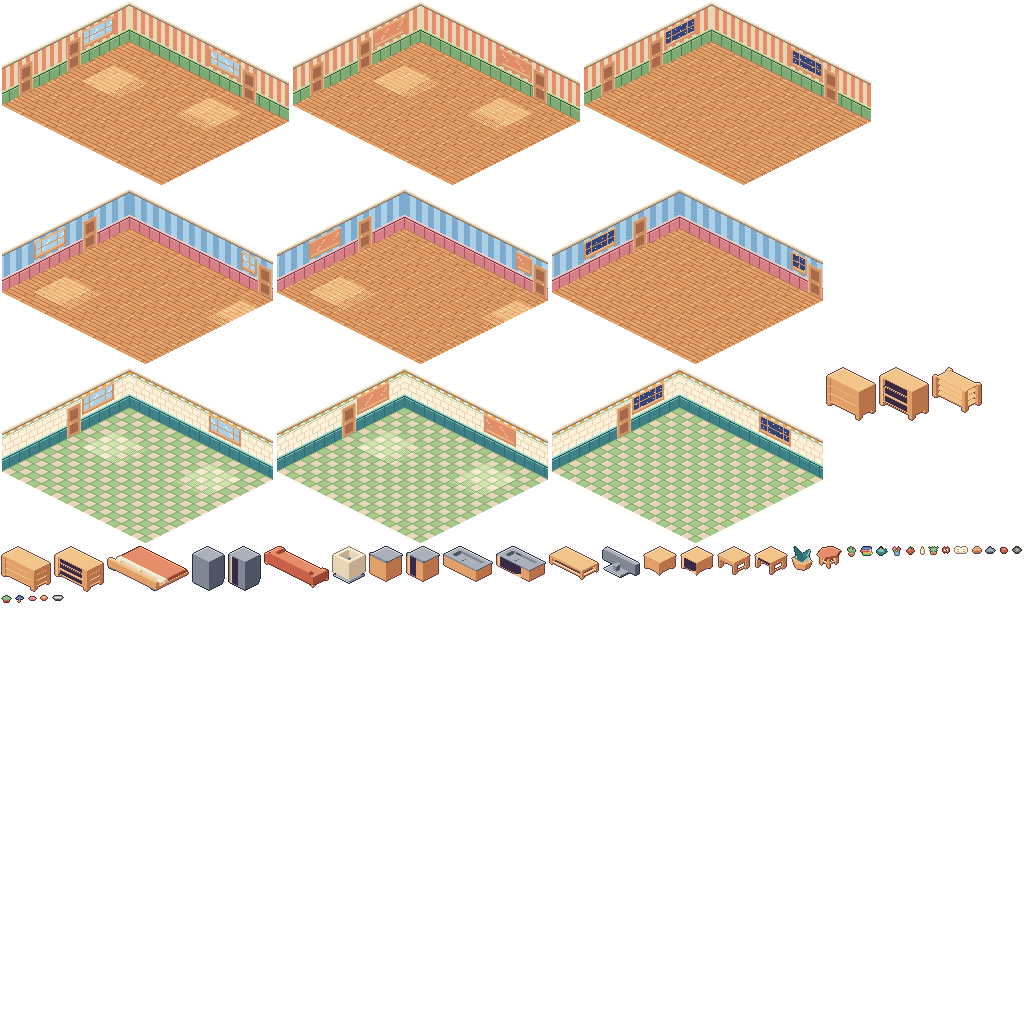
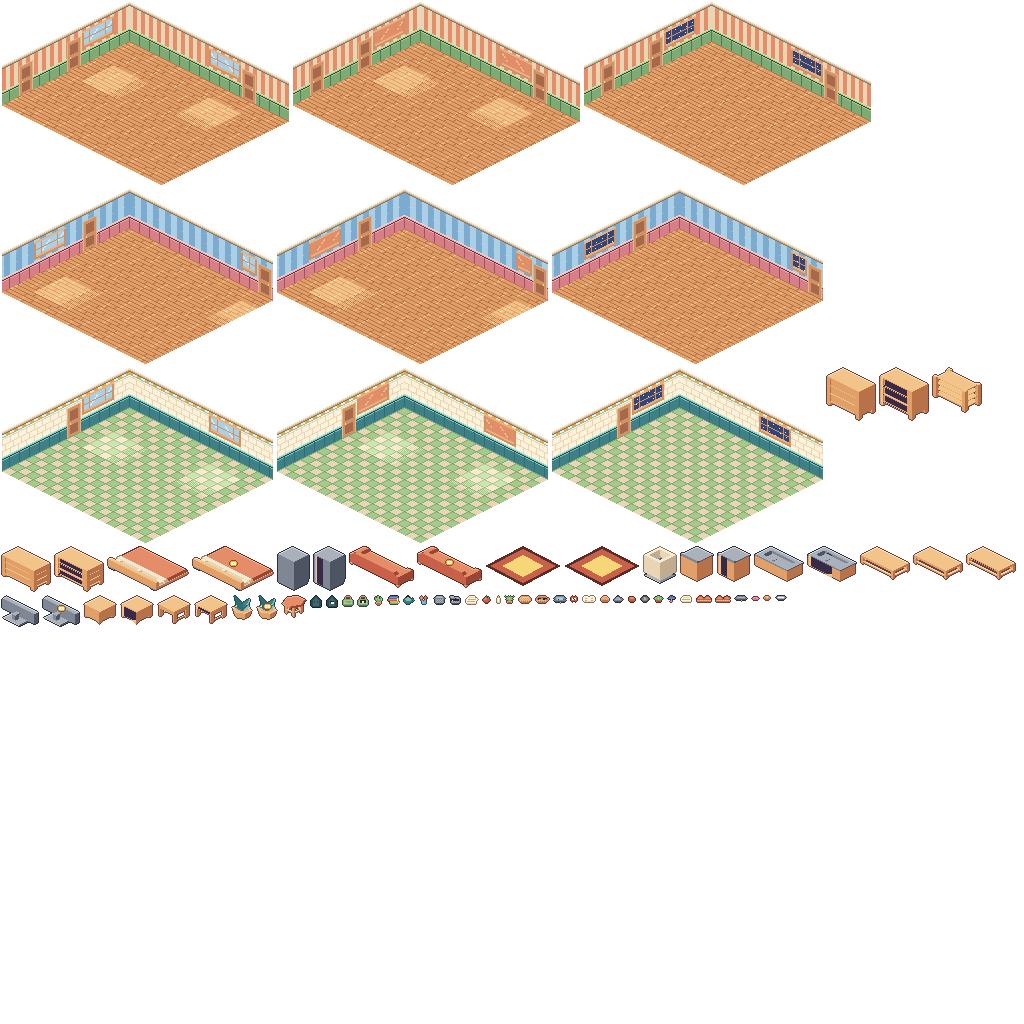
AI-4: spot frames for all slice-room kinds (closed/open), table variant

Changed region(s): [[0.0, 0.5312, 1.0, 0.625]]

diff --git a/tools/pixelart/spots.py b/tools/pixelart/spots.py
@@ -1,0 +1,52 @@
+#!/usr/bin/env python3
+"""Hand-built spot frames (B): closed/open pairs for bagSpot, basket, bin, charger, jacket, papers, shoeRack, rug, plus a generic
+'peek' open state for kinds whose Kenney closed frame has no door (sofa, bed, tv, plant). Pivot: bottom centre (rug/Kenney: unchanged).
+Usage: spots.py <room-slice dir>"""
+import json, os, sys
+from PIL import Image
+sys.path.insert(0, os.path.dirname(__file__))
+from dsl import build, col
+from props import L
+S = {
+ 'basket': (["..nnnnnnnn..", ".nNNNNNNNNn.", "nNnNnNnNnNnn", "nnNnNnNnNnNn", "nNnNnNnNnNnn", ".nmnmnmnmnm.", "..mmmmmmmm.."],
+            ["..nnnnnnnn..", ".nmmmmmmmmn.", "nmiiiggiiiimn", "nmiGgGgiirrmn", "nNnNnNnNnNnn", ".nmnmnmnmnm.", "..mmmmmmmm.."]),
+ 'bin': (["..kKKKKKk..", ".kKKKKKKKk.", "kkkkkkkkkkk", ".kKkKkKkKk.", ".kkKkKkKkk.", ".kKkKkKkKk.", ".kkKkKkKkk.", "..jjjjjjj.."],
+         ["KKKK.......", "kKKKkKKKk..", ".kkkk.kKKk.", ".iiiiiiiik.", ".iwiiiiiik.", ".kKkKkKkKk.", ".kkKkKkKkk.", "..jjjjjjj.."]),
+ 'charger': (["..kkkkkkkk..", ".kKKKKKKKKk.", "kkkkkkkkkkkk", ".jjjjjjjjjj.", "......y....."],
+             ["..kkkkkkkk..", ".kKKKKKKKKk.", "kkbBBBBBBkkk", ".kbBiBBBBjk.", "kkkkkkkkkkkk", ".jjjjjjjjjj.", "......y....."]),
+ 'jacket': (["....ll....", "...llLl...", "..llLLll..", ".llLLLLll.", "llLLLLLLll", "llLlLLlLll", "llLlLLlLll", "llLLLLLLll", "llLLLLLLll", "llLLLLLLll", ".lllllllll."],
+            ["....ll....", "...llLl...", "..llLLll..", ".llLLLLll.", "llLLLLLLll", "llLiiiiLll", "llLioowLll", "llLLoowLll", "llLLLLLLll", "llLLLLLLll", ".lllllllll."]),
+ 'papers': (["..wwwwwww..", ".wcccccccw.", "wwwwwwwwww.", "wddddddddw.", "wwwwwwwwww.", ".ccccccccc."],
+            ["...wwwwww..", "..wcccccw...", ".wwwwwwwwwo.", "wwddddddddwo", "wwwwwwwwwwo.", "wddddddddw..", "wwwwwwwwww..", ".ccccccccc."]),
+ 'shoeRack': (["..rrr....rrr..", ".rRRRr..rRRRr.", "rRRRRRrrRRRRRr", "rrrrrrrrrrrrrr", "nNnNnNnNnNnNnN", "mmmmmmmmmmmmmm"],
+              ["..rrr.....rr..", ".rRRRr..rRRRrr", "rRRRRRr.rRRRRr", "rrrrrrrrrrrrr.", "nNnNnNnNnNnNnN", "mmmmmmmmmmmmmm"]),
+ 'bagSpot': (["...nnnn...", "..n....n..", "..n....n..", ".gggggggg.", "gGGGGGGGGg", "gGggggggGg", "gGyyggggGg", "gGGGGGGGGg", "gggggggggg", ".hhhhhhhh."],
+             ["...nnnn...", "..n....n..", "..n....n..", ".gggggggg.", "gGiiiiiiGg", "gGiiwwiiGg", "gGiiooiiGg", "gGGGGGGGGg", "gggggggggg", ".hhhhhhhh."]),
+}
+PEEK = [".yyyyy.", "yowwwwy", "yowYwwy", "yowwwwy", ".yyyyy."]
+def diamond(w, h, lift):
+    im = Image.new('RGBA', (w, h), (0, 0, 0, 0)); px = im.load(); ramp = ['terracotta', 'butter']
+    for y in range(h):
+        for x in range(w):
+            if abs(x - (w - 1) / 2) / (w / 2) + abs(y - (h - 1) / 2) / (h / 2) <= 1:
+                edge = abs(x - (w - 1) / 2) / (w / 2) + abs(y - (h - 1) / 2) / (h / 2) > 0.86
+                inner = abs(x - (w - 1) / 2) / (w / 2) + abs(y - (h - 1) / 2) / (h / 2) < 0.55
+                px[x, y] = col('terracotta.0') if edge else col('butter.3') if inner else col('terracotta.2')
+                if lift and x + 2 * y < 30 and px[x, y][3]: px[x, y] = col('terracotta.4') if x + 2 * y > 26 else col('plaster.3')
+    return im
+def peek_open(src):
+    im = Image.open(src).convert('RGBA'); bb = im.getbbox(); pk = build(PEEK, L, outline=True)
+    cx, cy = (bb[0] + bb[2]) // 2 - pk.width // 2, bb[1] + int((bb[3] - bb[1]) * 0.30)
+    im.alpha_composite(pk, (max(0, cx), cy)); return im
+if __name__ == '__main__':
+    out = sys.argv[1]; piv = json.load(open(os.path.join(out, 'pivots.json')))
+    def save(key, im, pv):
+        im.save(os.path.join(out, key.replace('/', '__') + '.png')); piv[key] = {'pivot': list(pv)}
+    for kind, (c, o) in S.items():
+        for st, rows in (('closed', c), ('open', o)):
+            im = build(rows, L); save(f'spot/{kind}/{st}', im, (im.width // 2, im.height - 2))
+    for st in ('closed', 'open'):
+        d = diamond(76, 40, st == 'open'); im = Image.new('RGBA', (78, 42), (0, 0, 0, 0)); im.alpha_composite(d, (1, 1)); save(f'spot/rug/{st}', im, (39, 1))
+    for kind in ('sofa', 'bed', 'tv', 'plant'):
+        src = os.path.join(out, f'spot__{kind}__closed.png'); save(f'spot/{kind}/open', peek_open(src), piv[f'spot/{kind}/closed']['pivot'])
+    json.dump(piv, open(os.path.join(out, 'pivots.json'), 'w'), indent=0); print('spots done')

diff --git a/docs/status/AI-4.md b/docs/status/AI-4.md
@@ -6,15 +6,17 @@
 - Exterior kit (27 frames, group `house`, public/atlas/house.png): yard/lawn_0-2, path, flowers_0-3, bush_0-2, tree_0-1, fence_r/l/corner/gate, mailbox; porch/floor, steps, awning, railing, door, mat, lamp, lamp_glow, plant. Generator tools/pixelart/yard.py; ledger rows added; check.py accepts yard/porch names.
 - Kitchen shell redesign: cream tile backsplash with teal cap, sage/cream checker floor (was grey). Bedroom shell: soft blue stripes with rose dot lattice and picture-rail line. Living unchanged.
 - Stairs: `prop/stairsUp` (1x3 tiles, 12 steps x 6 art px = 72 rise, climbs toward -gy at rot 0, procedural, pivot = footprint top vertex) and `shell/house/stairwell` (2x1 hole with cream rim for the upper floor), both in group `house`; tools/pixelart/stairs.py. Kenney stairs models rendered as a ladder at this size, not used.
+- Room contact sheet tool (art:sheet), kitchen/bedroom props, check-frames fronts check: closed/open now exist for every kind used by living, kitchen and bedroom (bagSpot, basket, bin, charger, jacket, papers, shoeRack, rug, table new; sofa/bed/tv/plant got an `open` state). tools/pixelart/spots.py + spots.json (table).
 ## Verified
 - check.py core: 74 files, 0 problems; room-slice: 49 files, 0 problems (see commit).
 ## Not verified
 - Not made: optional porch bench/bike/cat. Fence pivots are the segment start vertex (AI-3 to confirm placement). check-frames does not yet check fronts.json. How it looks: owner/manager judge.
 ## Weaknesses (honest)
+- sofa/bed/tv/plant `open` is only a small envelope peeking on the closed frame (no real animation); hand-built small spots are 10-14 art px and basic; rug lift is a lighter corner; padlock overlay is `ui/padlock` (not re-skinned).
 - Exterior is simple: flat lawn tiles, small door (12x19 art px), awning is a single striped slope, glow is dithered.
 - A few picture frames and the coat rack still use dark honey-brown outlines; kitchen/bedroom shells only recoloured, not redesigned.
 ## Requests
 - AI-2: stairsUp footprint is 2x1 in layoutProps.ts but the staircase needs 1 wide x 3 deep (or rotate to 3x1 with rot 1 once I add a mirrored frame). Tell me which; I can also re-cut it 2x1 with steeper rise.
 - AI-3: src/ui/theme.ts should read docs/art/palette.json `theme`. AI-1: add check_fronts.py to `npm run verify`.
 ## Next
-- Spot frames (spot/<kind>/closed|open, padlock overlay).
+- Room contact sheet tool (art:sheet), kitchen/bedroom props, check-frames fronts check (spot/<kind>/closed|open, padlock overlay).
